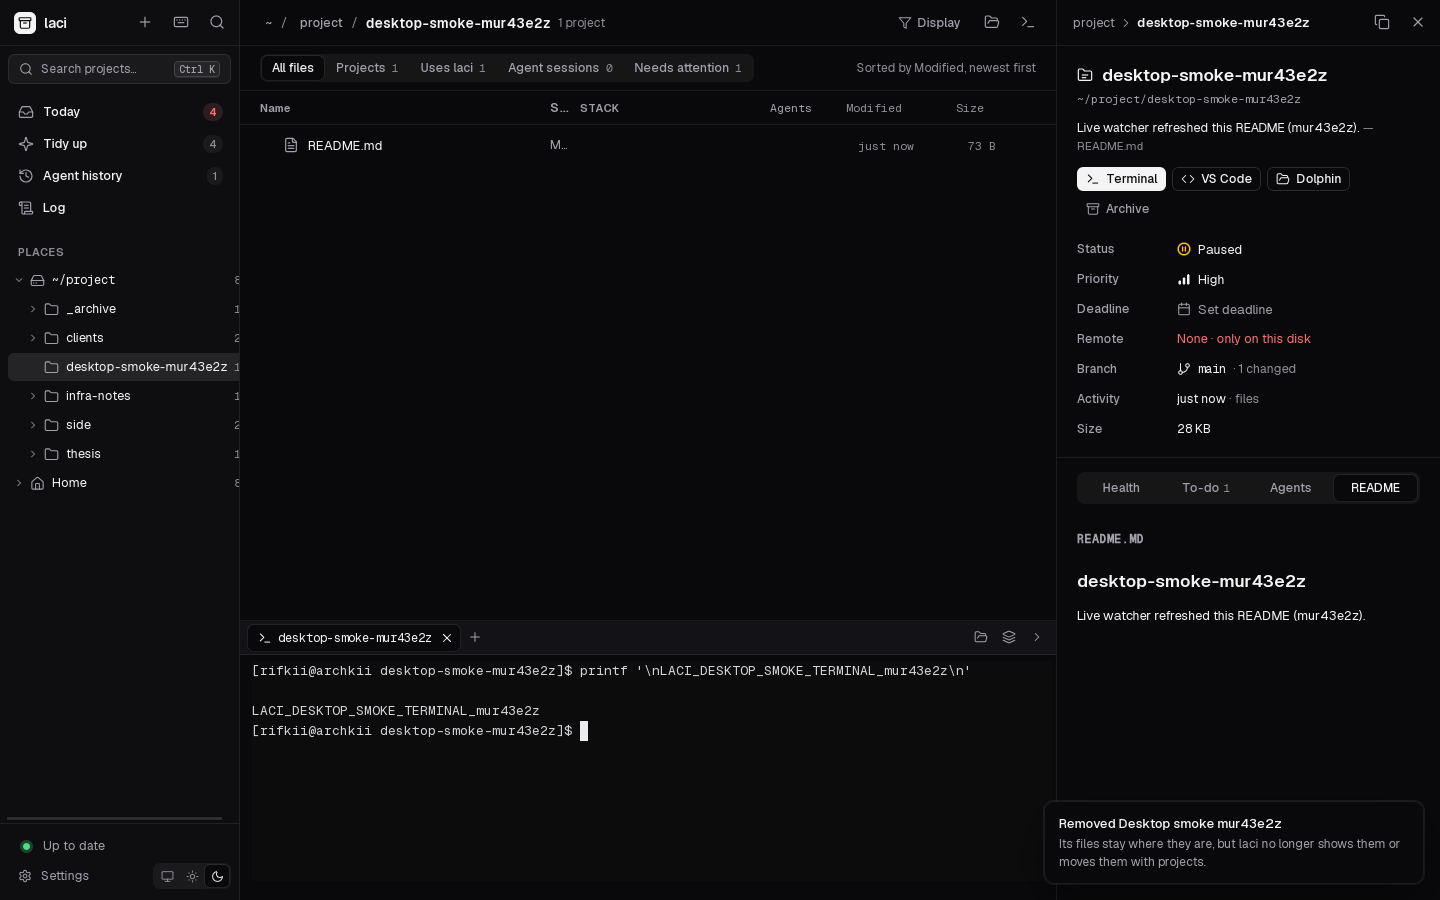
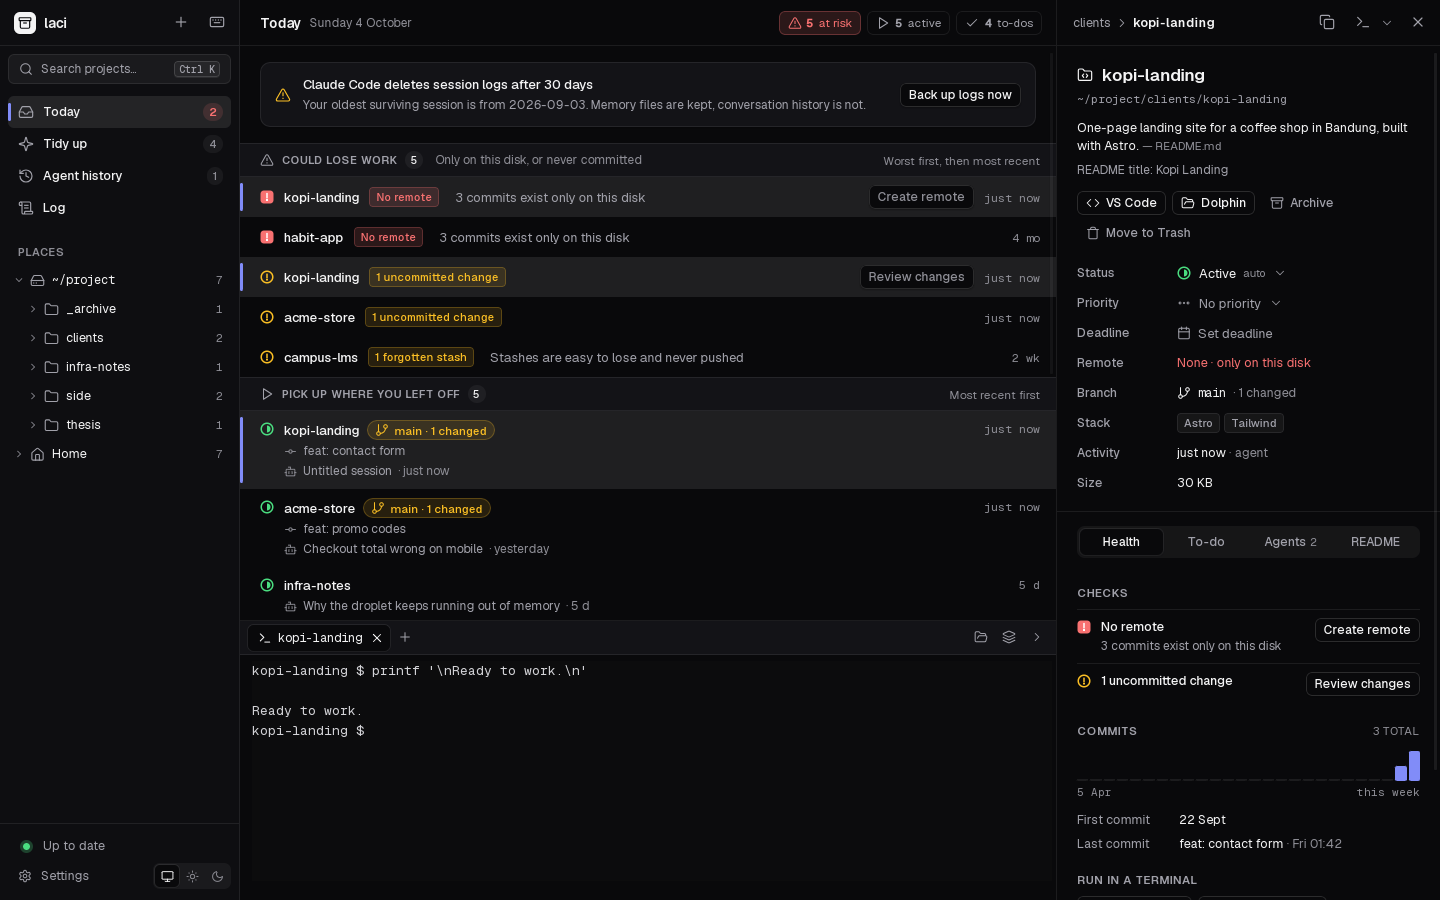
docs: describe agent workflows and safe recovery

diff --git a/README.md b/README.md
@@ -78,7 +78,7 @@ laci finds cleanups and shows exactly which files each one touches before anythi
 - **Finish half-done moves**: session folders that were renamed while the logs inside still record the old path.
 - **Free space** from `node_modules` and build output in dormant or archived projects.
 - **Duplicates**: the same repo cloned in two places.
-- **Quarantine** sessions whose folder no longer exists.
+- **Quarantine** sessions whose folder is confirmed missing, or explicitly move the selected history to **system Trash**. Offline, unscanned and ambiguous locations block cleanup. Laci rechecks sources, reconnection and running writers when you apply it.
 - **Archive** projects nobody has touched in a while.
 
 ![Tidy up: suggestions grouped by kind, each listing the files it will change](docs/screenshots/tidy.png)
@@ -105,17 +105,23 @@ Undoing a deleted to-do requires its `.laci.md` to remain unchanged after deleti
 
 ### Agent history and connectors
 
-A connector tells laci where an AI tool keeps its history, so it shows on the right project and travels with it. Claude Code, Codex, Gemini CLI, Claude plans, Serena and Aider are built in; laci suggests the ones it finds on your machine. Any other tool can be added with a short form, no code: its logs record the folder, it keeps one folder per project, it keeps history inside the project, or its files mention project paths.
+A connector tells laci where an AI tool keeps its history, so it shows on the right project and travels with it. Claude Code, Codex and Antigravity are offered as built-ins, enabled only when you select them. Previously configured integrations and custom stores remain readable; adding a built-in does not duplicate an existing store. Any other tool can be added with a short form, no code: its logs record the folder, it keeps one folder per project, it keeps history inside the project, or its files mention project paths.
+
+Codex titles use its title index, then a bounded first user message, then a short session ID. Child sessions appear under their parent. Home sessions stay global and can be inspected and resumed without a matched project. Antigravity uses `agy` and its last-conversation index; it does not expose full titles or resumability for history-only records. Laci does not edit provider title/model settings.
 
 ![Agent history: connected tools, sessions per project, and history whose folder is gone](docs/screenshots/agents.png)
 
 ### New project
 
-<kbd>+</kbd> in the sidebar makes a project folder: empty, from a template in `~/.config/laci/templates`, or cloned from a URL. laci starts git with a first commit, writes a `.laci.md`, and can create a private repo on GitHub, GitLab or both (with `gh` and `glab`), set up so one `git push` updates both.
+<kbd>+</kbd> in the sidebar creates an empty project, copies a local template, clones a URL, or runs a generator recipe. Templates can live in `~/.config/laci/templates` or a folder you reference in the form. Vite is the initial generator preset; you can save custom recipes as a program and argument list.
+
+Preview a generator before starting. The preview shows its command, runtime and download requirement. Generation runs in the background with bounded output, a cancellation control and a 15-minute timeout. A failure keeps the partial folder for inspection. Laci writes project metadata and initializes Git after successful scaffolding. Remote creation remains optional. The form also lets you include only the new folder in scan locations.
+
+Agent launch is an optional continuation for any source. Choose a connected provider, prompt, terminal target and supported model/effort overrides. Default omits override flags and uses provider settings. Load models on demand; unavailable discovery keeps Default usable. If launching fails, retry it without creating or pushing the project again.
 
 ### Built-in terminal
 
-Press <kbd>F4</kbd> for a terminal panel with real shells, one tab per project, each opened in the project's folder. *Resume session* runs `claude --resume <id>` there, and script buttons run `pnpm dev` and the like. Fix buttons type the command but wait for you to press Enter. Tabs survive a window reload.
+Press <kbd>F4</kbd> for a terminal panel with real shells, one tab per project, each opened in the project's folder. *Resume session* uses the selected provider and session ID with an explicit project directory. Script buttons run `pnpm dev` and the like. Fix buttons show a command and wait for Enter. The inspector's Terminal control opens a shell in the selected folder (or a file's containing folder); its compact target menu overrides the Settings default for that launch. Tabs survive a window reload.
 
 Hiding the panel keeps its sessions running. Closing a live tab asks for confirmation because it ends the shell and any running commands, and discards its output. Tabs whose shells have exited close directly.
 
@@ -154,7 +160,7 @@ pnpm build
 
 The packages appear in `target/release/bundle/`. Run `target/release/laci`, or install that binary and its launcher with `sh scripts/install-desktop.sh`.
 
-The first launch asks which folders hold your projects, which AI tools you use, and which editor, file manager and terminal to open things with. You can change these in Settings. Your existing v1 config is read directly; no import is needed. Journals, backups, activity and `.laci.md` keep their v1 formats.
+A fresh install starts with no selected folders or connectors, and does not discover repositories under Home automatically. An empty scan selection is valid. Settings can suggest folders on request; unavailable drives remain listed. The first launch asks which folders hold your projects, which AI tools you use, and which editor, file manager and terminal to open things with. You can change these in Settings. Your existing v1 config is read directly; no import is needed. Journals, backups, activity and `.laci.md` keep their v1 formats.
 
 The app opens with its cached scan while checking for changes. Fonts are bundled locally. The desktop, CLI and MCP server share the Rust engine; installed builds run without Node or Electron.
 
@@ -171,7 +177,7 @@ The app opens with its cached scan while checking for changes. Fonts are bundled
 | <kbd>Backspace</kbd> | Go up one folder |
 | <kbd>Esc</kbd> | Close the details panel, a menu or a dialog |
 
-Escape closes one active layer at a time. While a dialog is open, Tab stays inside it, and the palette and terminal shortcuts are inactive. F4 also works while typing in the terminal; it stays blocked while the command palette is open.
+Escape closes one active layer at a time. A dropdown closes first; a form asks whether to keep editing or discard its draft. While a dialog is open, Tab stays inside it, and the palette and terminal shortcuts are inactive. F4 also works while typing in the terminal; it stays blocked while the command palette is open.
 
 In the details panel, click **Status**, **Priority** or **Deadline** to change them. They are saved to the project's [`.laci.md`](#the-lacimd-file). **Editor** and the file manager button open the apps you picked in Settings. The theme switch (system, light, dark) is at the bottom of the sidebar.
 
@@ -275,7 +281,7 @@ laci adds `.laci.md` to the repo's `.git/info/exclude` (not `.gitignore`), so it
 | New project | Makes the folder; creates a remote repo only if you pick one |
 
 - **Undo.** Every move and rewrite is written to `~/.local/share/laci/journal/` *before* it happens. Rewritten files are kept in `~/.local/share/laci/backup/`. Undo restores them byte for byte. If a step fails midway, laci rolls back what it already did.
-- **Archive and trash recovery.** Undoing an archive restores the saved `.laci.md` in full and can replace edits made while archived. Recover trashed dependencies from the system trash; journal Undo does not restore them.
+- **Archive and trash recovery.** Undoing an archive restores the saved `.laci.md` in full and can replace edits made while archived. Recover trashed dependencies or orphan history from system Trash; journal Undo does not restore them. Pure Trash actions have no Laci Undo. Mixed actions explain which moves or edits Undo can restore.
 - **Log.** Every change is also listed in `~/.local/share/laci/activity.jsonl`, which the Log page reads. Undo from the Log goes through the same checks as the app, and stays inside home or explicitly selected workspace folders.
 - **Busy folders are refused.** If a running process (a `claude` session, a dev server) has its working directory inside a folder, laci won't move it.
 - **One change at a time.** A lock file keeps the app and agents from changing files at once.
@@ -287,7 +293,10 @@ Settings are saved in `~/.config/laci/config.json` (or under `$XDG_CONFIG_HOME`)
 
 | Key | |
 | --- | --- |
-| `roots` | Selected project folders, including mounted drives |
+| `roots` | Selected project folders, including mounted drives; `[]` leaves this selection empty (a configured archive is scanned separately) |
+| `terminalTarget` | `internal` (default) or `external` for shell and agent launches |
+| `templatePaths` | Local template folders referenced from New project |
+| `recipes` | User-saved generator programs, argument arrays and prerequisite/download declarations |
 | `archiveDir` | Default archive folder; empty or absent uses the nearest `_archive/` folder |
 | `presets` | Built-in connectors you added |
 | `custom` | Connectors you described yourself |
@@ -341,10 +350,9 @@ LACI_HOME=/tmp/laci-demo pnpm dev
 
 ## Roadmap
 
-- Manage agent sessions from laci
+- Broader live agent orchestration
 - File operations in the browser: copy, rename, individual-file delete, preview
 - Search across agent sessions ("when did I talk about Midtrans?")
-- Summaries written by an agent for projects without a README
 - Windows
 
 ## FAQ
@@ -362,7 +370,7 @@ laci reads every agent log once to see which folder each belongs to. After that 
 Normally no. laci watches for changes and updates by itself. A full scan is there in case something looks off.
 
 **Does it send my code anywhere?**
-No. Everything stays on your machine.
+Scanning stays local. If you launch an agent, clone a repository, create a remote or run a generator that downloads packages, that tool uses its own network connection and settings.
 
 ## License
 

diff --git a/CONTRIBUTING.md b/CONTRIBUTING.md
@@ -82,3 +82,15 @@ Run `node scripts/package-smoke.mjs` after building. It extracts all three archi
 Linux bundles depend on the build host's system libraries. CI builds on Ubuntu 24.04; use the oldest Linux distribution you support when building packages for distribution.
 
 Use Conventional Commits and keep changes focused. Commit only source, documentation and intentional assets; leave local prompts, agent configuration and handoff notes out of Git.
+
+## Patch regressions
+
+Use `CARGO_TARGET_DIR` to reuse a build cache outside the checkout; the package checker honors it too. Run `cargo test --workspace --features custom-protocol`, strict Clippy, UI lint/typecheck/build and `node scripts/ui-state-smoke.mjs` before native checks.
+
+`crates/laci-core/tests/roots_orphans.rs` exercises unavailable roots, stale proposals, reconnection, open writers, Quarantine restoration and Trash recovery using isolated data. `tests/creation.rs` exercises template safety, generator completion/failure and process-group cancellation. Agent/launch tests use synthetic transcripts and argv capture, so they do not spend provider tokens. MCP smoke keeps the original 15 tools and checks that changed orphan history invalidates a preview.
+
+For native QA, use a fresh demo home, a separate D-Bus session and test executables on PATH for provider launches. `LACI_HOME` isolates Laci data but does not isolate provider authentication or change shell HOME: never use real agent conversations as a transport test. Set a disposable `SHELL` wrapper with a neutral prompt for documentation captures. Check light Laci with a dark GTK theme, dark Laci, small windows, long dropdown options, keyboard/typeahead, one-layer Escape, Ctrl+K/F4 isolation, terminal cwd and external target arguments.
+
+`LACI_PATCH_ONLY=1` runs the small-window dropdown, root-selection and generator regressions. `LACI_AGENT_ONLY=1` captures provider arguments through real native terminals with fake executables. Before starting the driver for that mode, set `PATH="$LACI_HOME/bin:/usr/bin:/bin"`, `LACI_AGENT_CAPTURE="$LACI_HOME/agent-capture.jsonl"` and `LACI_TERMINAL=kitty`; run `tauri-driver` by its absolute path. The harness populates the fixture's `bin` directory before opening the app. This keeps installed providers out of the transport check.
+
+Verify generator progress and cancellation with a saved fixture recipe. Failed output must remain, and an agent-launch failure after creation must expose a retry that does not recreate the folder or remote. Verify empty-root settings across reload, offline-root indications, and Archive with an invalid default and a valid alternative. Keep screenshots synthetic and inspect staged paths before committing.

diff --git a/docs/ARCHITECTURE.md b/docs/ARCHITECTURE.md
@@ -47,3 +47,13 @@ Core mutation execution returns the committed result and its refresh scope. Desk
 The desktop creates one local window and uses Tauri IPC with a local-content policy. Markdown is sanitized. Local README images are scoped to scanned project directories. Commands selected by the interface are allowlisted; script/session arguments must exist in the snapshot and are shell quoted.
 
 `laci mcp` serves the 14 compatible v1 tool names plus `delete_project` over stdio without starting GTK or a window. Read calls reuse a recent snapshot. Move/archive/Trash/Tidy/create calls return a preview until `confirm: true` is supplied. Confirmed destructive operations refresh the scan and use the same engine as the desktop.
+
+## Session launch and creation
+
+Sessions normalize provider, UUID, title provenance, cwd, parent, source kind, update time and resume capability separately from the store/file identity. Codex metadata uses session/turn cwd, not tool-call paths. Title-index changes invalidate the title cache. Antigravity's shared last-conversation index is read-only and excluded from relocation and cleanup plans.
+
+The launch resolver accepts a provider, optional session ID, project path, prompt, model, effort and terminal target. IPC resolves session membership from the snapshot and verifies an active connector. Internal PTYs receive executable/argv/cwd directly; external terminals use the same resolved arguments with quoted transport boundaries. Explicit model discovery is cached and does not start a conversation. Unsupported overrides fail without silently selecting another model or provider.
+
+Desktop creation jobs run outside the snapshot mutex. They serialize filesystem creation through the existing process lock, bound output in memory, and fence mutations and stale snapshots from start through completion, failure or cancellation. Generator cancellation signals only its owned process group and reaps it before shutdown. Failed scaffolds stay on disk. Metadata, Git initialization and optional agent launch follow successful generation. Retrying a failed agent launch never repeats creation or remote operations.
+
+Fresh configuration has no roots or connectors. Explicit empty roots survive save and Undo. Root identity records distinguish missing project paths from unavailable/replaced selected roots. Orphan proposals capture source fingerprints; applying one rechecks the proposal, confirmed project absence, protected paths, symlinks and active writers under the mutation lock. Quarantine remains the compatible default; Trash requires an explicit recovery choice and does not advertise Laci Undo.

diff --git a/CHANGELOG.md b/CHANGELOG.md
@@ -4,6 +4,28 @@ What changed in laci, newest first. The format follows [Keep a Changelog](https:
 
 ## [Unreleased]
 
+### Added
+
+- Explicit scan locations, including an empty selection and unavailable-drive status. Optional folder suggestions use a bounded search.
+- Claude Code, Codex and Antigravity connectors with provider capabilities, readable session titles, grouped child sessions and provider-aware resume in Laci or an external terminal.
+- Optional agent launch after project creation, with a prompt and provider-supported model/effort overrides. Model discovery runs only on request.
+- Referenced local template folders and generator recipes, including Vite. Preview the command, prerequisites and download requirement before starting; view progress, cancel the owned generator process, and retain partial output on failure.
+- Orphan-history system Trash alongside the default Quarantine action. Fresh path, source, mounted-root and process checks block stale or ambiguous cleanup.
+
+### Fixed
+
+- Token-styled dropdowns follow the app theme, retain keyboard/typeahead behavior and close before their enclosing dialog. Forms keep drafts until submission or explicit discard.
+- One sidebar search entrypoint, a Terminal control beside Copy path, visible sort direction, external-root breadcrumbs and keyboard navigation.
+- Archive remains accessible when its default destination is invalid, with a field for another destination.
+- Pure Trash actions no longer advertise Laci Undo; mixed journals explain recovery through system Trash.
+- Per-user launcher installs available icon sizes and resolves its icon through an absolute path.
+- Non-Git projects no longer claim to be committed and pushed. Removed Git trailer reporting and its extra history query.
+
+### Changed
+
+- New installations start with no selected roots or connectors. Existing explicit and custom connector settings remain readable.
+- Raw prototype captures are excluded from source; maintained documentation captures use synthetic data.
+
 ## [2.0.0-rc.1]
 
 Release candidate for Linux x86-64. The distribution build targets Ubuntu 24.04; the license remains undecided.
